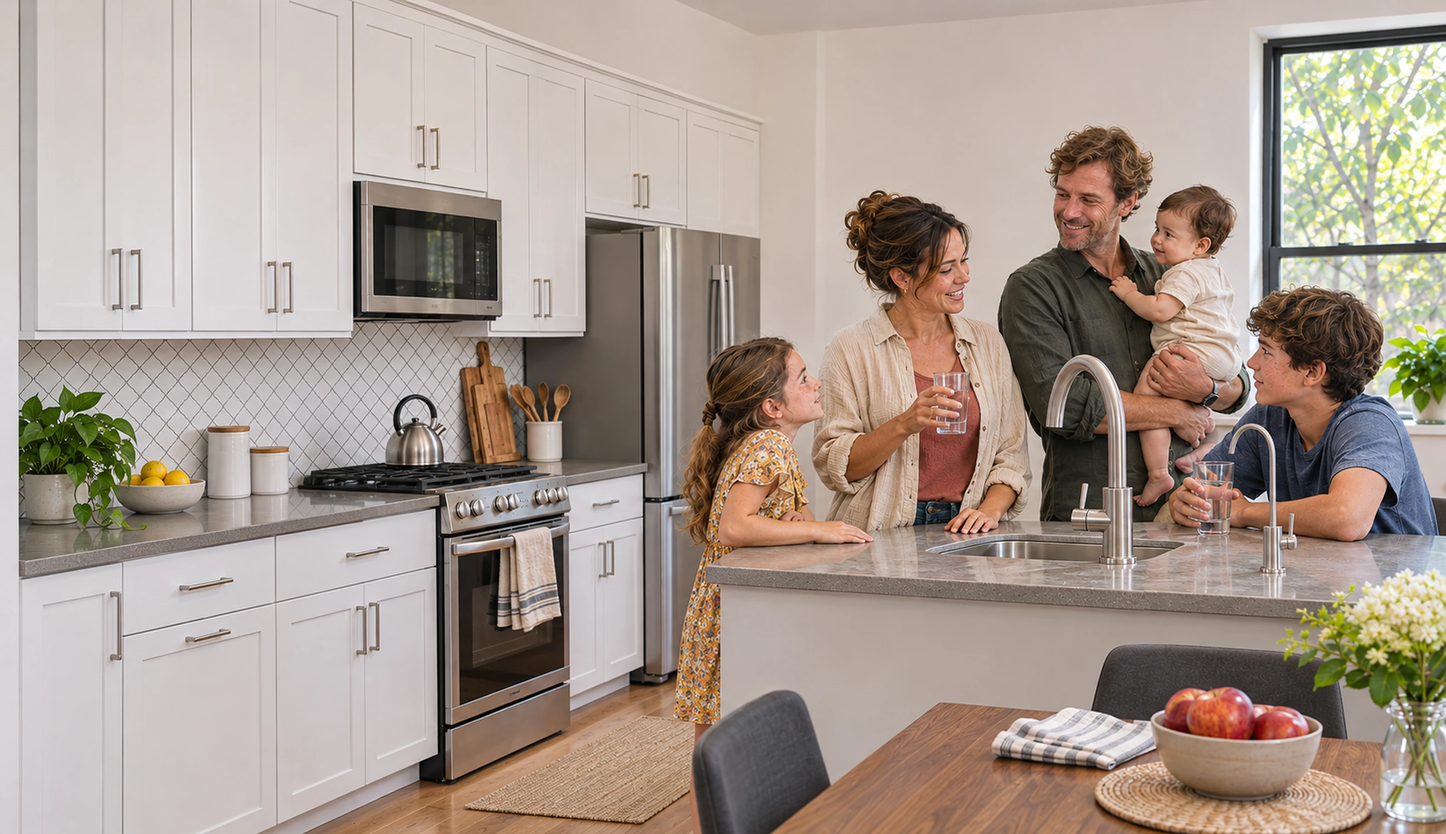
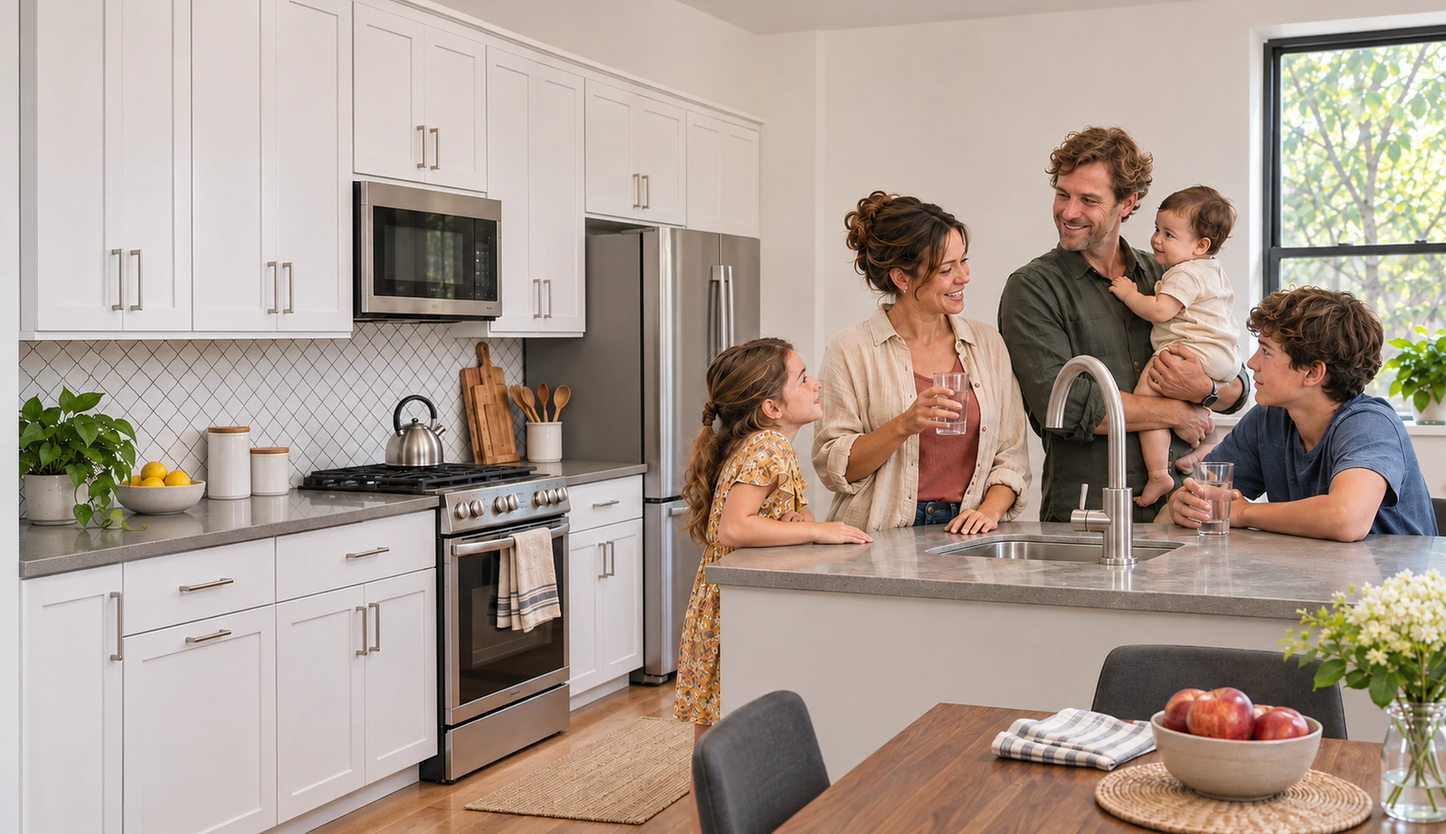
art: remove extra faucets and require visual image review

diff --git a/IMAGE_PROMPTS.md b/IMAGE_PROMPTS.md
@@ -3,9 +3,12 @@ Revised 2026-11-03 following the user's latest visual review. This complete revi
 supersedes the logo-heavy, oversized-product and invented-kitchen prompts.
 
 ## 1. Direction
-Latest user correction: "we are currently not selling water filters." Do not
-treat the product concepts below as evidence of current offerings. Broader
-imagery direction is awaiting clarification. P5 is now a non-product NYC scene.
+Latest clarification: imagery should show people drinking water or RO filters.
+This is visual direction, not a claim about current inventory. Do not generate
+additional whole-house, shower or countertop category concepts. Those older
+entries below are historical pending design-owner retirement. P5 remains the
+recent non-product NYC About replacement.
+Kitchen scenes must show exactly ONE faucet per sink, as requested by the user.
 Original editorial photographs in clean, attractive, attainable middle-income
 apartments. Start with an actual photographed apartment kitchen, inspect its
 architecture, then generate an original scene grounded in that layout.
@@ -48,8 +51,7 @@ artwork or decor. Do not claim a generated room is a real installation.
 Do not enlarge hardware to make it prominent. Preserve product proportions and
 leave fitting/service clearance. A filter may occupy a separate adjacent utility
 cabinet when an actual sink bowl/drain would prevent an under-sink fit.
-The filtration story is clear through the installed unit or dedicated drinking
-tap and water use; do not force an open oversized unit into every family scene.
+The filtration story is clear through the installed unit or water use; do not force an open oversized unit into every family scene.
 Product detail plates carry the close-up hardware story.
 
 ### 2.4 Colour
@@ -79,7 +81,8 @@ distressed surfaces, neglected apartment, luxury penthouse, blue colour grade,
 cool colour grade, warm colour grade, orange tint, green tint, purple tint,
 teal and orange, heavy vignette, lens flare, artificial background haze,
 HDR halo, oversharpened, CGI render, 3D render, video game lighting,
-floating objects, duplicated parts, low-res, jpeg artifacts
+floating objects, duplicated parts, duplicate faucets, extra spouts, melted objects,
+fused utensils, low-res, jpeg artifacts
 ```
 P1 intentional exploded separation is the sole floating-parts exception.
 
@@ -110,6 +113,16 @@ empty wall by including naturally quiet room detail.
 Other editorial plates: 4:3; coherent scene and useful background context.
 
 ## 5. Validation
+Before installing EVERY candidate, visually inspect the full-resolution image
+and final delivery crop. Record object counts and issues in image-refs/.
+Count faucets (one per sink), people (hero exactly five), limbs, glasses and
+product components. Trace hand grips, baby support, spout-to-basin placement,
+water streams, cabinet clearance, door swings and visible tubing continuity.
+Reject extra/melted/fused objects, broken perspective and implausible placement.
+Compare hardware silhouette with protected references. Treat unverified plumbing
+as illustrative, never an installation guide. Check no added text/icons and
+CSS-safe crop. Inspect corrected output again; do not assume the edit succeeded.
+Automated dimensions/build checks supplement, but never replace, visual review.
 Inspect architecture, hands, faces, baby support, family count, product proportions,
 plumbing, typography absence and crop at final size. Reject impossible layouts.
 Record source/native dimensions/delivery dimensions and generation prompts.
@@ -143,11 +156,11 @@ window-lit dining area, adapted from observed spatial relationships.
 Camera from dining/living side, eye-level35mm, coherent perspective.
 Exactly five people: father about40, mother about37, older son14, younger
 daughter7, baby boy9months. Father safely supports baby with forearm under
-bottom and hand at torso; baby looks at family. Mother uses drinking-water tap
+bottom and hand at torso; baby looks at family. Mother uses the single sink faucet
 from its working side; son and daughter naturally interact at dining counter or
 table. Separate readable faces, natural expressions, ordinary clothes and poses.
 Do not arrange five smiling heads in a row. Make interaction intimate enough to
-see expressions, with clear water/glass and dedicated tap as foreground subject.
+see expressions, with clear water/glass as foreground subject and exactly one sink faucet.
 A full H5 need not be exposed in this family image; keep installation concealed
 if revealing it would distort architecture or force a product collage.
 Left40% real quiet room, action right. Clean middle-income home, daylight, neutral
@@ -156,7 +169,7 @@ white balance, real texture, no added text, icons or logos.
 ### P3 — lifestyle-hydration.webp
 1200x900. Real-kitchen-reference-led original photograph. Older grandfather and
 young granddaughter share an ordinary water moment at a modest dining counter,
-dedicated tap and clear glass visible. Anatomically convincing grips, relaxed
+one sink faucet and clear glass visible. Anatomically convincing grips, relaxed
 individual expressions, natural fine lines, clean practical kitchen background.
 Use an intimate eye-level50mm view. Do not expose an enormous unit at their knees.
 No text, icons or logos.
@@ -165,7 +178,7 @@ No text, icons or logos.
 1200x900. Real-reference-based detail of H5 installed inside a clean adjacent
 utility cabinet or under a sink only with credible bowl/drain clearance.
 Three-quarter view shows cabinet depth, tidy actual connections, full unit at
-normal scale, small drinking tap above/nearby. No person required. Ordinary
+normal scale, one sink faucet above/nearby. No person required. Ordinary
 materials, soft daylight, accurate hardware. No text/icons/logos.
 
 ### P5 — nyc-skyline.webp

diff --git a/COORDINATION.md b/COORDINATION.md
@@ -85,6 +85,20 @@ reason to edit and which has to stay identical across all fourteen.
 
 ## Log
 
+### 2026-11-03 · Codex · One-faucet corrections and visual review
+
+User clarified the desired subject is people drinking water or RO filters, and
+rejected the hero's two faucets. Removed the secondary fixture from hero,
+lifestyle-hydration and point-of-use, preserving people/hardware/composition.
+Visually inspected all 11 current assets and corrected candidates; recorded
+per-image findings/limitations in image-refs/visual-review-2026-11-03.json.
+Brief now requires one faucet per sink and explicit manual object/anatomy/layout
+review before export. Automated build checks are not visual validation.
+Design owner: older whole-house, shower and countertop concepts fall outside
+clarified direction; retire/reassign their category slots. No markup changed.
+RO plumbing remains illustrative, not verified installation instructions.
+Three exports verified exact dimensions/WebP/sRGB; resolution exception retained.
+
 ### 2026-11-03 · Claude Code, design · Every customer page is in the frame, and the weight is in the photographs
 
 Pushed to main today, each after `npm run check` and a look at desktop and
